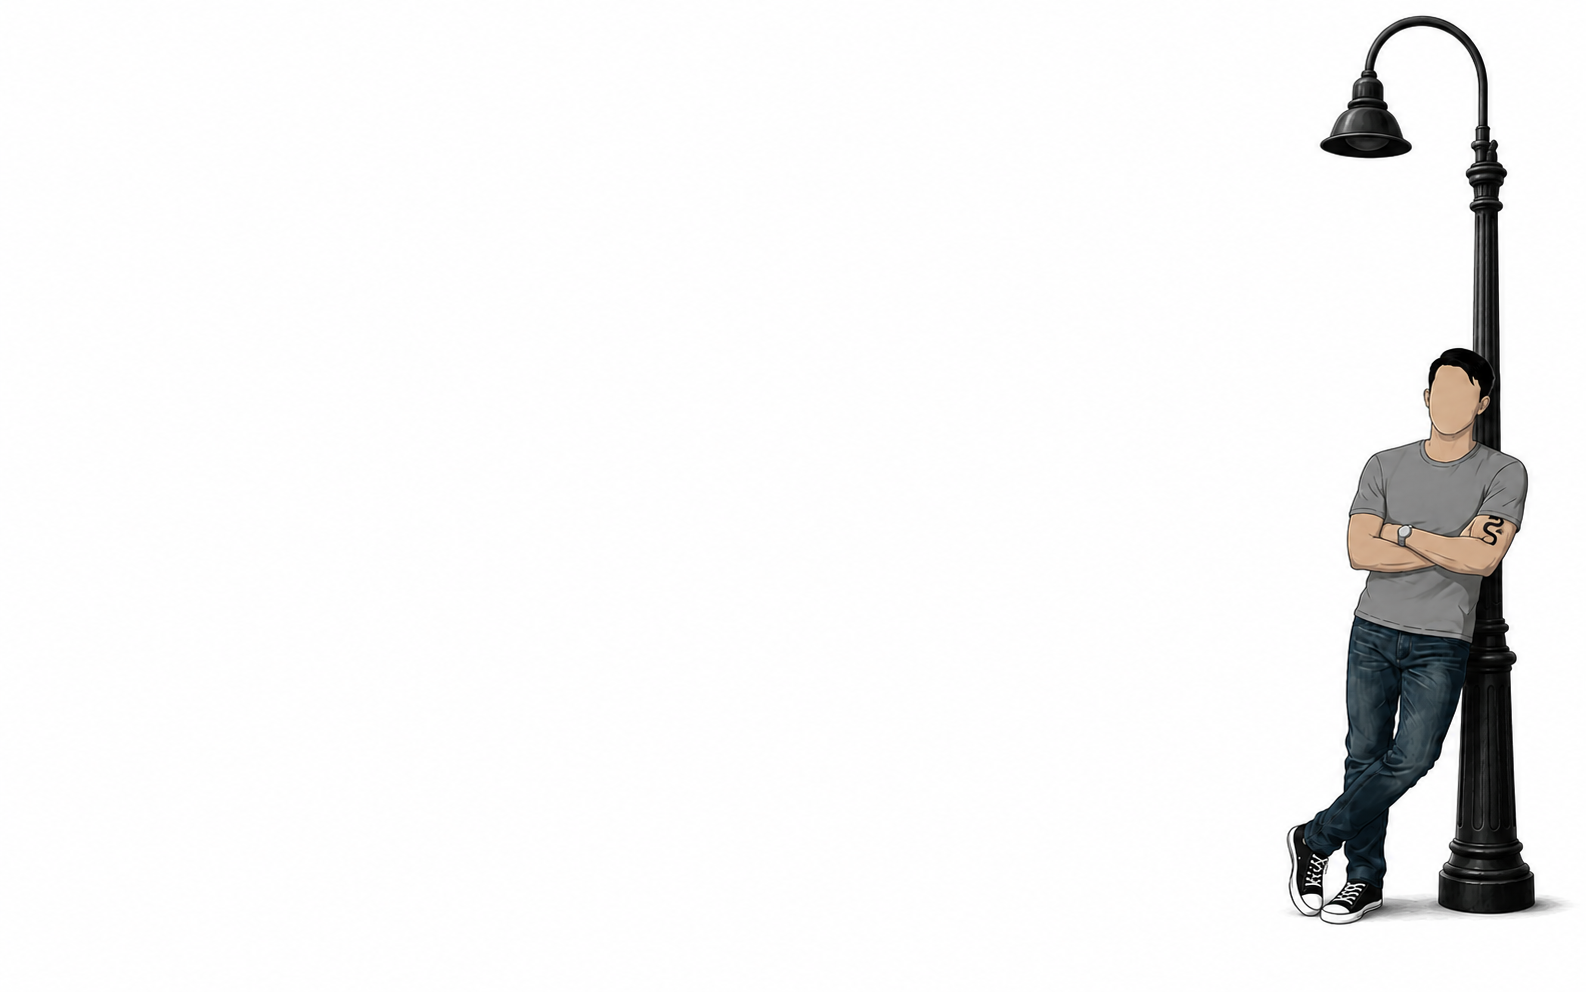
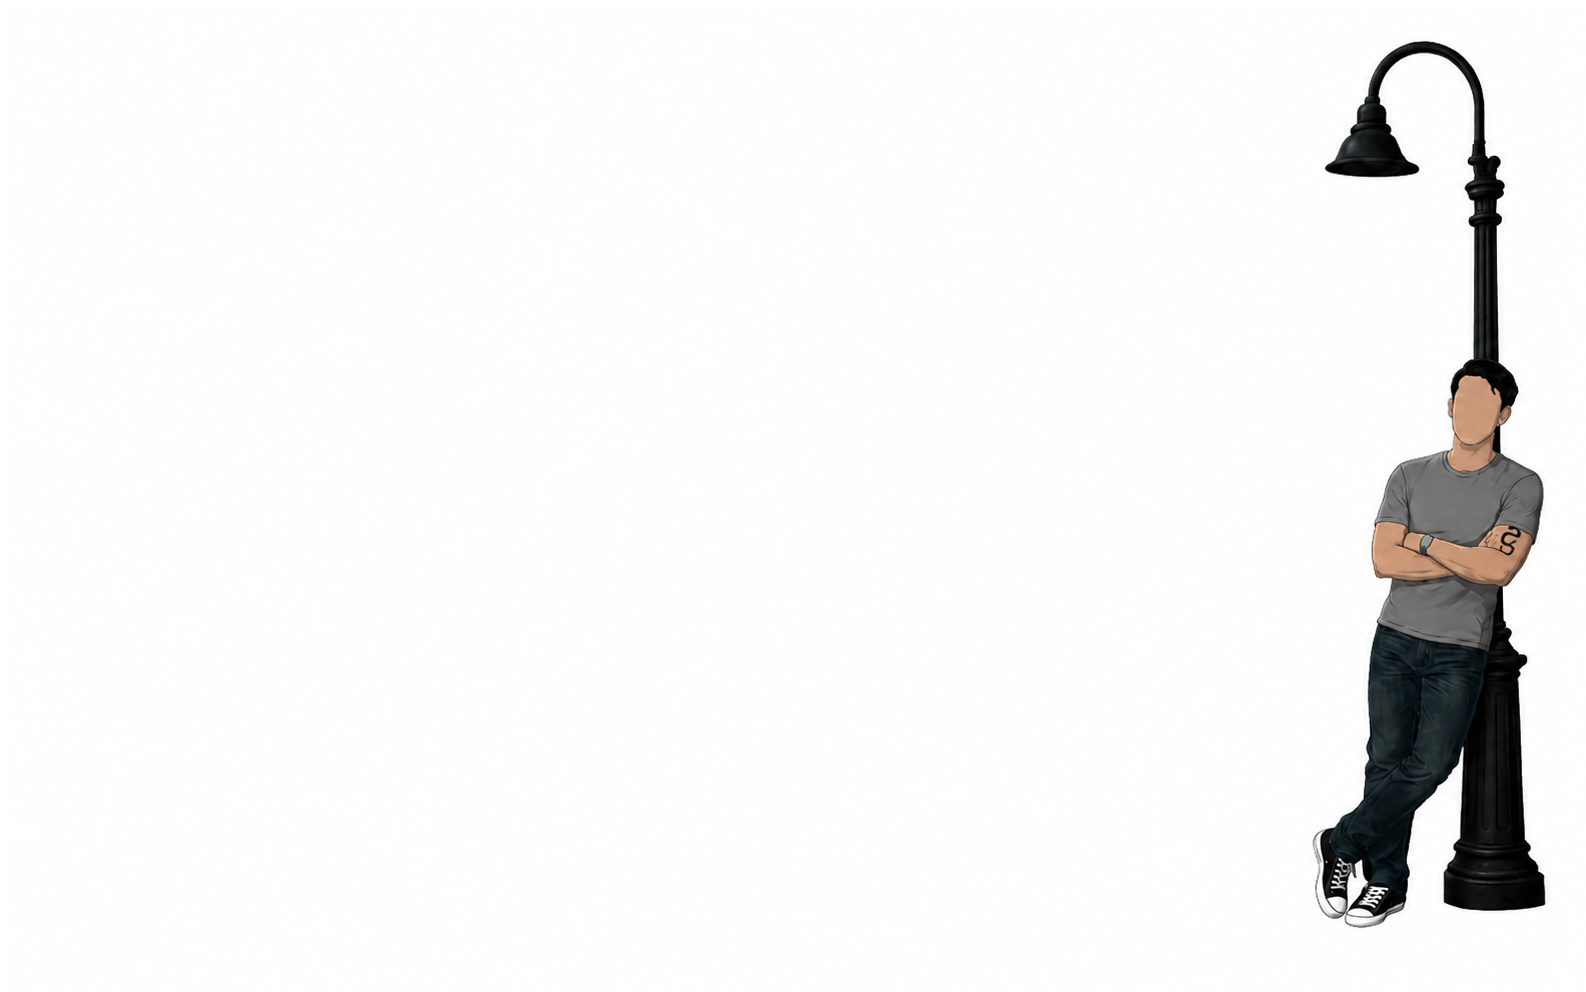
feat: implement theme toggle with cross-fading light and dark wallpapers

Changed region(s): [[0.8033, 0.0, 0.9887, 0.9375]]

diff --git a/src/components/desktop/DesktopIcon.tsx b/src/components/desktop/DesktopIcon.tsx
@@ -28,6 +28,7 @@ type Props = {
   selected: boolean
   onClick: (e: React.MouseEvent) => void
   onDoubleClick: () => void
+  isDark: boolean
 }
 
 // ─── Icon colour tints for folder variants ──────────────────────────────────
@@ -49,10 +50,10 @@ const ICON_SRC: Record<IconType, string> = {
 }
 
 // ─── Component ───────────────────────────────────────────────────────────────
-export default function DesktopIcon({ id, label, type, selected, onClick, onDoubleClick }: Props) {
+export default function DesktopIcon({ id, label, type, selected, onClick, onDoubleClick, isDark }: Props) {
   const src    = ICON_SRC[type]
   const filter = type === "folder" ? (FOLDER_TINT[id] ?? FOLDER_TINT["projects"]) : undefined
-  const isTrash = type === "trash"
+  const isTrash = type === "trash"  // reserved for future Trash-specific logic
 
   return (
     <div
@@ -73,7 +74,9 @@ export default function DesktopIcon({ id, label, type, selected, onClick, onDoub
         userSelect:     "none",
       }}
       onMouseEnter={e => {
-        if (!selected) e.currentTarget.style.background = "rgba(255,255,255,0.07)"
+        if (!selected) e.currentTarget.style.background = isDark
+          ? "rgba(255, 255, 255, 0.07)"
+          : "rgba(0, 0, 0, 0.06)"
       }}
       onMouseLeave={e => {
         if (!selected) e.currentTarget.style.background = "transparent"
@@ -96,15 +99,19 @@ export default function DesktopIcon({ id, label, type, selected, onClick, onDoub
       {/* Label */}
       <span
         style={{
-          color:      selected ? "#fff" : "rgba(255,255,255,0.88)",
-          fontSize:   "0.72rem",
-          fontWeight: selected ? 500 : 400,
-          textAlign:  "center",
-          textShadow: "0 1px 4px rgba(0,0,0,0.85)",
-          lineHeight: 1.3,
-          maxWidth:   72,
-          wordBreak:  "break-word",
-          pointerEvents: "none",
+          color:              isDark
+                                ? (selected ? "#ffffff" : "rgba(255, 255, 255, 0.95)")
+                                : (selected ? "#000000" : "#1c1c1e"),
+          fontSize:           "0.72rem",
+          fontWeight:         selected ? 600 : 500,
+          textAlign:          "center",
+          lineHeight:         1.3,
+          maxWidth:           72,
+          wordBreak:          "break-word",
+          pointerEvents:      "none",
+          // Dark Mode: multi-directional outline shadow & thin text-stroke; Light Mode: clean text
+          textShadow:         isDark ? "0 0 3px rgba(0, 0, 0, 0.95), 0 0 1px rgba(0, 0, 0, 0.95)" : "none",
+          WebkitTextStroke:   isDark ? "0.15px rgba(0, 0, 0, 0.6)" : "none",
         }}
       >
         {label}

diff --git a/src/components/desktop/Desktop.tsx b/src/components/desktop/Desktop.tsx
@@ -11,7 +11,8 @@ import Gallery from "../../apps/Gallery"
 import TextEditor from "../../apps/TextEditor"
 import Trash from "../../apps/Trash"
 import Dock from "./Dock"
-import defaultWallpaper from "@/assets/wallpapers/light.png"
+import lightWallpaper from "@/assets/wallpapers/light.png"
+import darkWallpaper from "@/assets/wallpapers/dark.png"
 
 export type AppId =
   | "projects"
@@ -70,6 +71,7 @@ const TITLES: Record<AppId, string> = {
 let idCounter = 0
 
 export default function Desktop() {
+  const [isDark, setIsDark] = useState(false)
   const [icons, setIcons] = useState<{ id: AppId; label: string; type: IconType }[]>([])
   const [windows, setWindows] = useState<WindowState[]>([])
   const [activeWindowId, setActiveWindowId] = useState<string | null>(null)
@@ -217,15 +219,41 @@ export default function Desktop() {
       style={{
         position: "fixed",
         inset: 0,
-        backgroundImage: `url(${defaultWallpaper})`,
-        backgroundSize: "100% 90%",
-        backgroundPosition: "center",
         fontFamily: "'Inter', sans-serif",
       }}
     >
+      {/* ── Wallpaper layers — both always mounted for zero-delay crossfade ── */}
+      <div
+        aria-hidden="true"
+        style={{
+          position:   "absolute",
+          inset:       0,
+          backgroundImage: `url(${lightWallpaper})`,
+          backgroundSize: "100% 100%",
+          backgroundPosition: "center",
+          opacity:     isDark ? 0 : 1,
+          transition:  "opacity 420ms ease-in-out",
+          zIndex:      0,
+          pointerEvents: "none",
+        }}
+      />
+      <div
+        aria-hidden="true"
+        style={{
+          position:   "absolute",
+          inset:       0,
+          backgroundImage: `url(${darkWallpaper})`,
+          backgroundSize: "100% 100%",
+          backgroundPosition: "center",
+          opacity:     isDark ? 1 : 0,
+          transition:  "opacity 420ms ease-in-out",
+          zIndex:      0,
+          pointerEvents: "none",
+        }}
+      />
       {/* TopBar — stop click propagation to avoid deselecting icons */}
       <div onClick={e => e.stopPropagation()}>
-        <TopBar />
+        <TopBar isDark={isDark} onToggleTheme={() => setIsDark(d => !d)} />
       </div>
 
       {/* Desktop icons — flex column wrap for responsive grid */}
@@ -250,6 +278,7 @@ export default function Desktop() {
             label={icon.label}
             type={icon.type}
             selected={selectedIconId === icon.id}
+            isDark={isDark}
             onClick={e => {
               e.stopPropagation()
               setSelectedIconId(icon.id)

diff --git a/src/components/desktop/TopBar.tsx b/src/components/desktop/TopBar.tsx
@@ -55,11 +55,10 @@ const BatteryIcon = () => (
   </svg>
 )
 
-const ThemeToggleIcon = () => {
-  const [isDark, setIsDark] = useState(false)
+const ThemeToggleIcon = ({ isDark, onToggle }: { isDark: boolean; onToggle: () => void }) => {
   return (
     <div
-      onClick={() => setIsDark(!isDark)}
+      onClick={onToggle}
       style={{
         display: "flex",
         alignItems: "center",
@@ -114,7 +113,12 @@ const ThemeToggleIcon = () => {
   )
 }
 
-export default function TopBar() {
+type TopBarProps = {
+  isDark: boolean
+  onToggleTheme: () => void
+}
+
+export default function TopBar({ isDark, onToggleTheme }: TopBarProps) {
   const [time, setTime] = useState(new Date())
 
   useEffect(() => {
@@ -223,7 +227,7 @@ export default function TopBar() {
         <WifiIcon />
         <VolumeIcon />
         <BatteryIcon />
-        <ThemeToggleIcon />
+        <ThemeToggleIcon isDark={isDark} onToggle={onToggleTheme} />
       </div>
     </div>
   )
